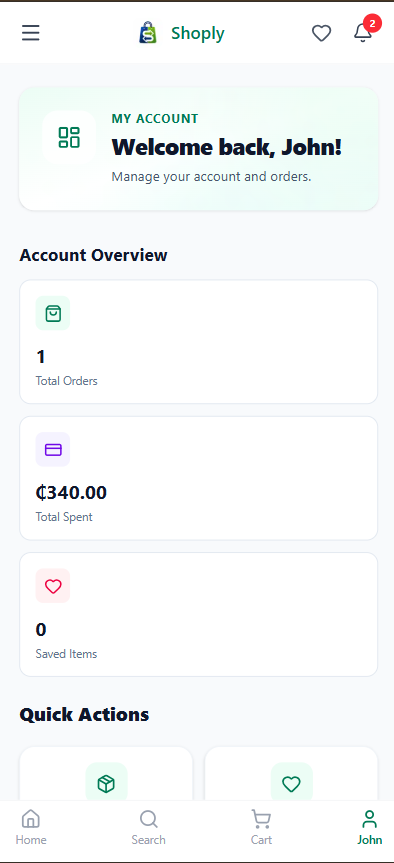
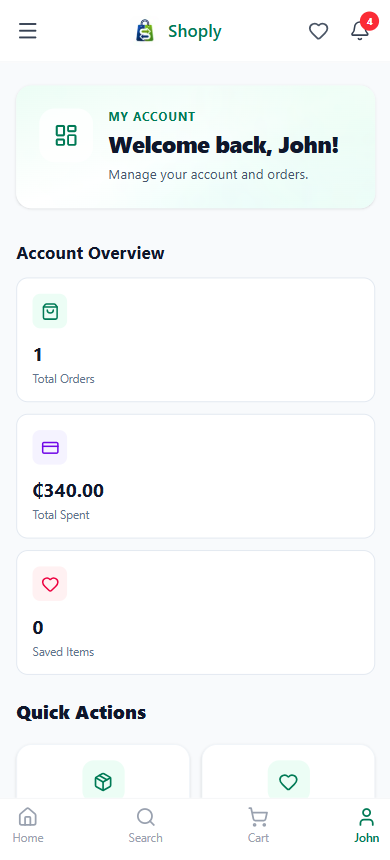
shoply_image_update

diff --git a/src/components/Footer.jsx b/src/components/Footer.jsx
@@ -52,7 +52,7 @@ export default function Footer() {
           </div>
           <p className="pt-5 font-light leading-relaxed">
             {" "}
-            Full Stack Developer specializing in modern web technologies,
+            Full-Stack Developer specializing in modern web technologies,
             intuitive UI/UX, and building scalable, high-performance digital
             experiences with clean code & creative flow.
           </p>
